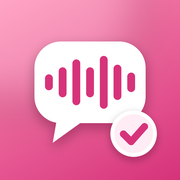
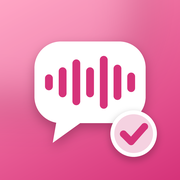
Adiciona troca de ícone do app por profissão
- 8 conjuntos de ícones (fonoaudiologia, fisioterapia, psicologia,
  psiquiatria, nutrição, psicopedagogia, pediatria e terapia
  ocupacional), em icons/<profissão>/icon-{180,192,512}.png.
- Atualiza os ícones padrão da raiz para o novo conjunto consistente
  de fonoaudiologia e sobe a versão do cache (?v=fono2, service worker
  v12), já que o conteúdo dos arquivos mudou e o cache é imutável por
  1 ano.
- Nova seção "Ícone do app" em Ajustes › Aparência: troca o
  apple-touch-icon, o favicon e o manifest.json (gerado na hora como
  blob, já que o manifest é um arquivo estático e não dá pra
  personalizar por usuária no servidor) de acordo com a escolha.
- Deixa claro na interface que, se o app já estiver na tela de início,
  é preciso remover e adicionar de novo pra pegar o ícone novo lá —
  isso é uma limitação do iOS/Android, não do app.

Changed region(s): [[0.6389, 0.6389, 0.8611, 0.8611]]

diff --git a/index.html b/index.html
@@ -10,9 +10,9 @@
 <meta name="apple-mobile-web-app-title" content="Agenda">
 <meta name="theme-color" content="#F6F5FA" media="(prefers-color-scheme: light)">
 <meta name="theme-color" content="#121019" media="(prefers-color-scheme: dark)">
-<link rel="manifest" href="manifest.json">
-<link rel="apple-touch-icon" sizes="180x180" href="icon-180.png?v=fono">
-<link rel="icon" type="image/png" sizes="192x192" href="icon-192.png?v=fono">
+<link rel="manifest" href="manifest.json" id="manifestLink">
+<link rel="apple-touch-icon" sizes="180x180" href="icon-180.png?v=fono2" id="appleIcon">
+<link rel="icon" type="image/png" sizes="192x192" href="icon-192.png?v=fono2" id="favIcon">
 <link rel="preconnect" href="https://fonts.googleapis.com">
 <link rel="preconnect" href="https://fonts.gstatic.com" crossorigin>
 <link rel="stylesheet" href="https://fonts.googleapis.com/css2?family=Bricolage+Grotesque:opsz,wght@12..96,600;12..96,700&family=Figtree:wght@400;500;600;700&display=swap">
@@ -193,6 +193,11 @@ textarea.input{min-height:80px;resize:vertical}
 .colors{display:flex;gap:10px;flex-wrap:wrap}
 .colors button{width:36px;height:36px;border-radius:50%;border:3px solid transparent;background:var(--c)}
 .colors button.on{border-color:var(--ink)}
+.iconpick{display:grid;grid-template-columns:repeat(auto-fill,minmax(84px,1fr));gap:10px}
+.iconpick button{display:flex;flex-direction:column;align-items:center;gap:6px;padding:10px 6px;border-radius:14px;border:2px solid transparent;background:transparent;text-align:center}
+.iconpick button img{width:52px;height:52px;border-radius:14px;box-shadow:var(--shadow)}
+.iconpick button span{font-size:12px;font-weight:600;line-height:1.2}
+.iconpick button.on{border-color:var(--accent);background:var(--accent-soft)}
 .hours{display:flex;flex-direction:column;gap:8px}
 .hrow{display:grid;grid-template-columns:62px 1fr;gap:10px;align-items:start}
 .hrow .dn{padding-top:12px;font-weight:600}
@@ -413,6 +418,36 @@ migrate();
 const ACCENTS=[{key:'rosa',name:'Rosa'},{key:'azul',name:'Azul'},{key:'verde',name:'Verde'},{key:'roxo',name:'Roxo'},{key:'laranja',name:'Laranja'},{key:'teal',name:'Teal'}];
 const ACCENT_HEX={rosa:'#C2256A',azul:'#2F6FD6',verde:'#1F8A4C',roxo:'#7C3AED',laranja:'#C2730B',teal:'#138A80'};
 const accentPreview=k=>ACCENT_HEX[k]||ACCENT_HEX.rosa;
+
+/* Ícone do app por profissão (Ajustes › Aparência). O padrão (fonoaudiologia)
+   usa os arquivos da raiz (já citados pelo service worker); os demais ficam
+   em icons/<profissão>/ e só entram em jogo se a pessoa trocar. */
+const ICON_PROFESSIONS=[
+  {key:'fonoaudiologia',name:'Fonoaudiologia'},
+  {key:'fisioterapia',name:'Fisioterapia'},
+  {key:'psicologia',name:'Psicologia'},
+  {key:'psiquiatria',name:'Psiquiatria'},
+  {key:'nutricao',name:'Nutrição'},
+  {key:'psicopedagogia',name:'Psicopedagogia'},
+  {key:'pediatria',name:'Pediatria'},
+  {key:'terapia-ocupacional',name:'Terapia ocupacional'},
+];
+const iconBase=key=>(!key||key==='fonoaudiologia')?'':'icons/'+key+'/';
+let lastManifestUrl=null;
+function applyIcon(){
+  const key=(S&&S.settings&&S.settings.icon)||'fonoaudiologia';
+  const base=iconBase(key);
+  const apple=$('#appleIcon'),fav=$('#favIcon'),manifestLink=$('#manifestLink');
+  if(apple)apple.href=base?base+'icon-180.png':'icon-180.png?v=fono2';
+  if(fav)fav.href=base?base+'icon-192.png':'icon-192.png?v=fono2';
+  const manifest={name:'Minha Agenda',short_name:'Agenda',start_url:'./',display:'standalone',background_color:'#F6F5FA',theme_color:'#D6337A',lang:'pt-BR',
+    icons:[{src:base?base+'icon-192.png':'icon-192.png?v=fono2',sizes:'192x192',type:'image/png'},{src:base?base+'icon-512.png':'icon-512.png?v=fono2',sizes:'512x512',type:'image/png',purpose:'any'}]};
+  const url=URL.createObjectURL(new Blob([JSON.stringify(manifest)],{type:'application/manifest+json'}));
+  if(manifestLink)manifestLink.href=url;
+  if(lastManifestUrl)URL.revokeObjectURL(lastManifestUrl);
+  lastManifestUrl=url;
+}
+applyIcon();
 function applyAccent(){
   const a=S?.settings?.accent;
   if(a&&a!=='rosa')document.documentElement.dataset.accent=a;else delete document.documentElement.dataset.accent;
@@ -1360,12 +1395,19 @@ function renderSetAtendimento(body){
 
 function renderSetAparencia(body){
   const cur=S.settings.accent||'rosa';
-  body.innerHTML=`<div class="section" style="margin-bottom:10px"><div class="label">Cor de destaque</div>
+  const curIcon=S.settings.icon||'fonoaudiologia';
+  body.innerHTML=`<div class="section"><div class="label">Cor de destaque</div>
     <div class="small muted">Só muda a cor de destaque do app (botões, links, seleção) — o modo claro/escuro continua seguindo o tema do seu celular.</div>
     <div class="card"><div class="seg" id="accentPick" style="margin:0">${ACCENTS.map(a=>`<button data-v="${a.key}" style="display:flex;align-items:center;gap:8px"><span class="swatch" style="background:${accentPreview(a.key)}"></span>${a.name}</button>`).join('')}</div></div>
+  </div>
+  <div class="section" style="margin-bottom:10px"><div class="label">Ícone do app</div>
+    <div class="small muted">Escolha o ícone de acordo com a profissão. Se o app já estiver na tela de início, remova e adicione de novo pra ver o ícone novo lá (o navegador não atualiza sozinho).</div>
+    <div class="card"><div class="iconpick" id="iconPick">${ICON_PROFESSIONS.map(p=>`<button data-v="${p.key}"><img src="${iconBase(p.key)?iconBase(p.key)+'icon-192.png':'icon-192.png?v=fono2'}" alt=""><span>${esc(p.name)}</span></button>`).join('')}</div></div>
   </div>`;
   segSelect($('#accentPick'),cur);
   $('#accentPick').querySelectorAll('button').forEach(b=>b.onclick=()=>{S.settings.accent=b.dataset.v;save();applyAccent();render();toast('Cor atualizada')});
+  $('#iconPick').querySelectorAll('button').forEach(b=>{b.classList.toggle('on',b.dataset.v===curIcon);
+    b.onclick=()=>{S.settings.icon=b.dataset.v;save();applyIcon();render();toast('Ícone atualizado')}});
 }
 
 function renderSetSeguranca(body){

diff --git a/sw.js b/sw.js
@@ -1,4 +1,4 @@
-const C='agenda-v11';
+const C='agenda-v12';
 self.addEventListener('install',e=>{e.waitUntil(caches.open(C).then(c=>c.addAll(['./','index.html','manifest.json','icon-180.png','icon-192.png'])));self.skipWaiting()});
 self.addEventListener('activate',e=>{e.waitUntil(caches.keys().then(k=>Promise.all(k.filter(x=>x!==C).map(x=>caches.delete(x)))));self.clients.claim()});
 self.addEventListener('fetch',e=>{if(e.request.method!=='GET')return;e.respondWith(fetch(e.request).then(r=>{const cp=r.clone();caches.open(C).then(c=>c.put(e.request,cp)).catch(()=>{});return r}).catch(()=>caches.match(e.request).then(r=>r||caches.match('./'))))});
